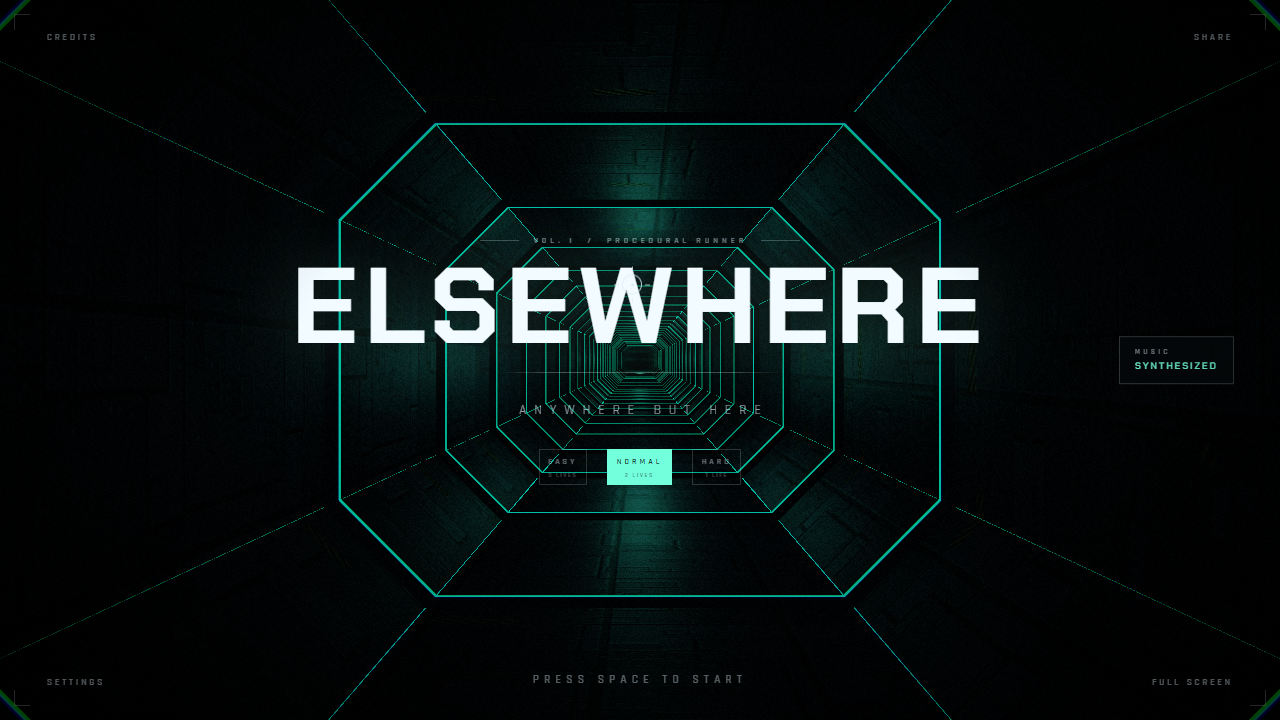
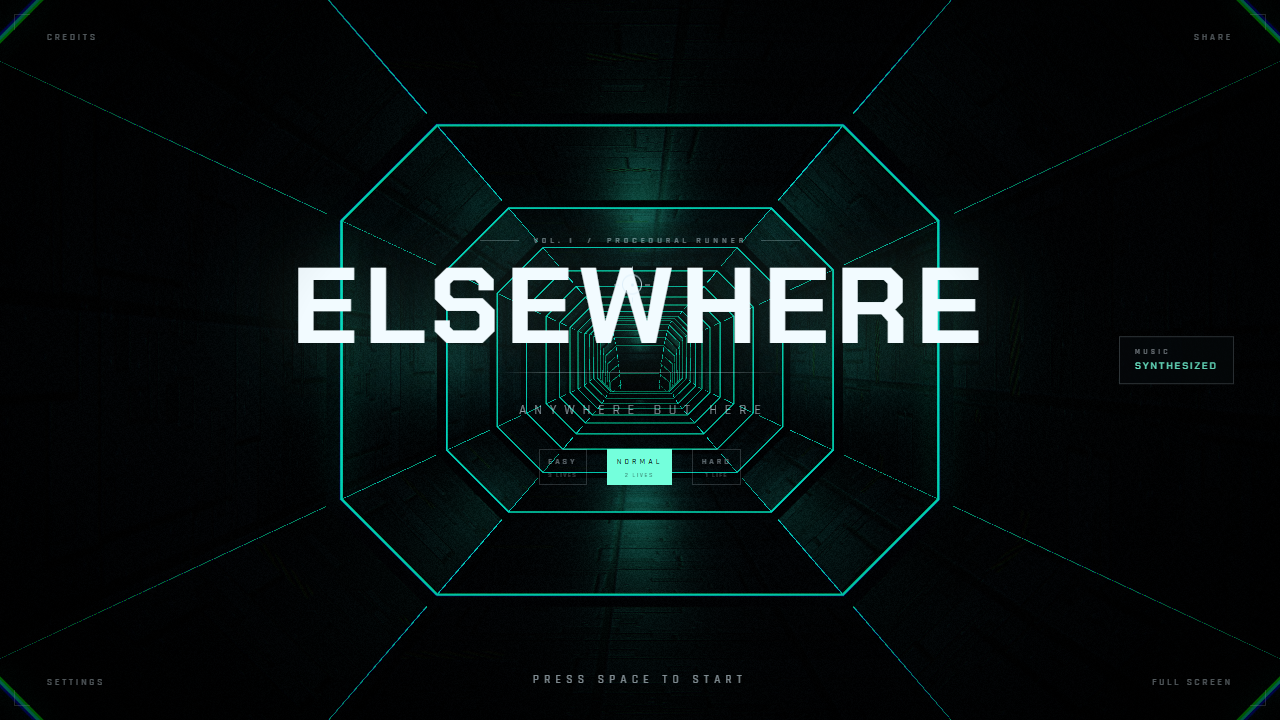
fix: chunk streaming both ways, light knockback, stand-off from the hull
- third and real cause of the black screen: chunks were only ever built forward
  from the furthest one, so the moment the camera started receding (knockback,
  or the endless reel-back after death) it walked off the built corridor. The
  manager now grows backward as well as forward
- knockback 300 -> 110 units/s, death reel 0.85s -> 0.45s; a hit nudges you
- the title screen owns a fixed stretch of corridor (MENU_S) and no longer
  inherits wherever the run happened to die
- player stand-off from the hull 0.32 -> 0.80 units, so you cannot scrape the
  wall and get shoved around on a corner

diff --git a/js/main.js b/js/main.js
@@ -91,6 +91,7 @@ const UNITS_PER_BEAT = 20 * (60 / 128);
 /* long enough to still have corridor under you at full boost for the whole song */
 const PATH_BACK = 4200;          // corridor generated behind the start, for the reel-back
 const START_S = PATH_BACK;
+const MENU_S = START_S + 140;   // title screen lives here, always
 const CORRIDOR_LEN = PATH_BACK + 7200;
 const path = buildPath(CORRIDOR_LEN);
 const tunnel = new Tunnel(tex, path);
@@ -178,7 +179,7 @@ const G = {
   hitFlash: 0,
 };
 
-G.distance = START_S + 80;
+G.distance = MENU_S;
 
 const PHASES = [0.44, 0.78, 0.92, 0.57, 0.09, 0.66];
 const PHASE_BEATS = 32;
@@ -188,8 +189,8 @@ let currentHue = PHASES[0];
 let phaseIndex = 0;
 
 const CAM = { x: 0, y: 0, tx: 0, ty: 0, roll: 0 };
-const RANGE_X = TUNNEL.a - 0.32;
-const RANGE_Y = TUNNEL.b - 0.32;
+const RANGE_X = TUNNEL.a - 0.80;
+const RANGE_Y = TUNNEL.b - 0.80;
 /* the camera trails the vessel instead of sitting on it, so the marker you
    steer is visibly *off-centre* — first person, but not glued to the axis */
 const CAM_OFFSET = 0.88;
@@ -386,6 +387,7 @@ async function startGame() {
 
 function toMenu() {
   gates.clear();
+  G.distance = MENU_S;          // the menu never inherits where the run ended
   setState(State.MENU);
   audio.stop();
   G.time = 0;
@@ -405,7 +407,7 @@ function takeHit(gate) {
 
   flash(0.9, 380, '#ff5a5a');
   shakeDom(1);
-  G.recoil = 0.16;
+  G.recoil = 0.10;
 
   if (G.lives <= 0) endRun('TERMINATED');
 }
@@ -415,7 +417,7 @@ function endRun(title) {
   G.runOver = true;
   G.state = State.CRASH;
   G.timeScale = 1;
-  G.recoil = title === 'ESCAPED' ? 0 : 0.85;
+  G.recoil = title === 'ESCAPED' ? 0 : 0.45;
   audio.stop();
 
   const total = G.gatesPassed + G.hits;
@@ -554,7 +556,7 @@ function step(dt) {
   else if (G.state === State.CRASH || G.state === State.OVER) {
     if (G.recoil > 0) {
       G.recoil = Math.max(0, G.recoil - dt);
-      G.distance -= 300 * sdt;        // the hit knocks you back
+      G.distance -= 110 * sdt;        // a light knock, not a teleport
     } else {
       G.distance -= 16 * sdt;         // then it just keeps receding, for ever
     }

diff --git a/js/tunnel.js b/js/tunnel.js
@@ -254,20 +254,29 @@ export class Tunnel {
       }
     }
 
-    let furthest = 0;
-    if (this.chunks.length) {
-      for (const c of this.chunks) furthest = Math.max(furthest, c.s1);
-    } else {
-      furthest = Math.max(0, s - KEEP_BEHIND);
-    }
+    let lo = Infinity, hi = -Infinity;
+    for (const c of this.chunks) { lo = Math.min(lo, c.s0); hi = Math.max(hi, c.s1); }
+    if (!this.chunks.length) { lo = s; hi = s; }
 
+    // build forward
     let guard = 0;
-    while (furthest < need1 && furthest < this.path.length - 1 && guard++ < 8) {
-      const a = Math.max(0, furthest);
+    while (hi < need1 && hi < this.path.length - 1 && guard++ < 8) {
+      const a = Math.max(0, hi);
       const b = Math.min(this.path.length, a + CHUNK);
       if (b - a < 1) break;
       this.chunks.push(this._buildChunk(a, b));
-      furthest = b;
+      hi = b;
+    }
+
+    // build backward — the camera can now recede, so the corridor has to grow
+    // behind it as well as ahead
+    guard = 0;
+    while (lo > need0 && lo > 0 && guard++ < 8) {
+      const b = Math.min(this.path.length, lo);
+      const a = Math.max(0, b - CHUNK);
+      if (b - a < 1) break;
+      this.chunks.push(this._buildChunk(a, b));
+      lo = a;
     }
   }
 
